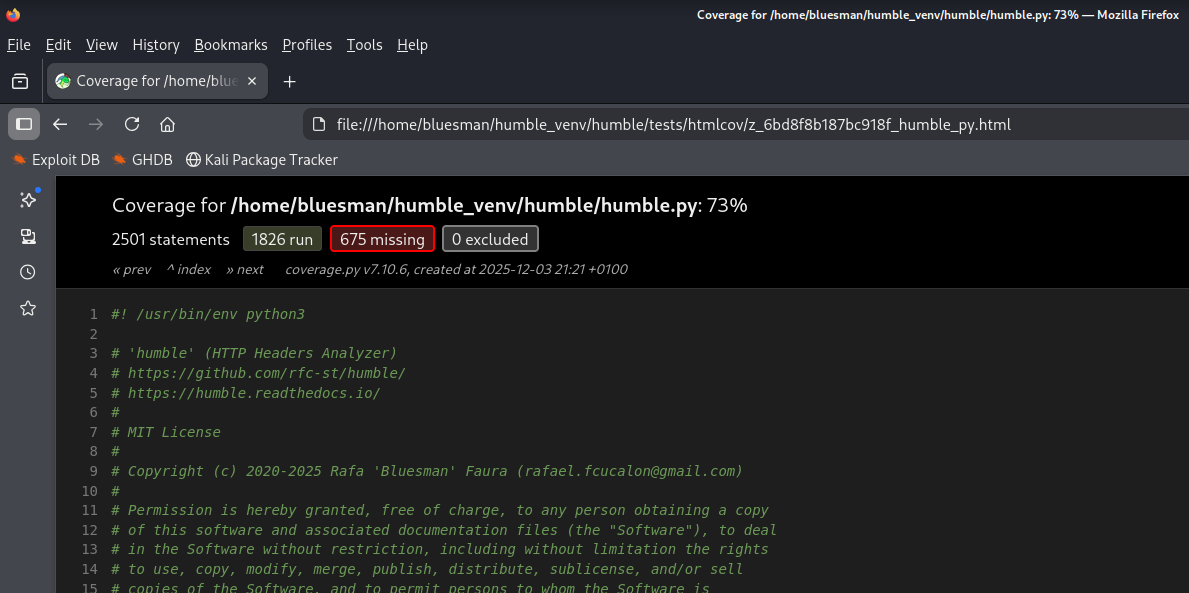
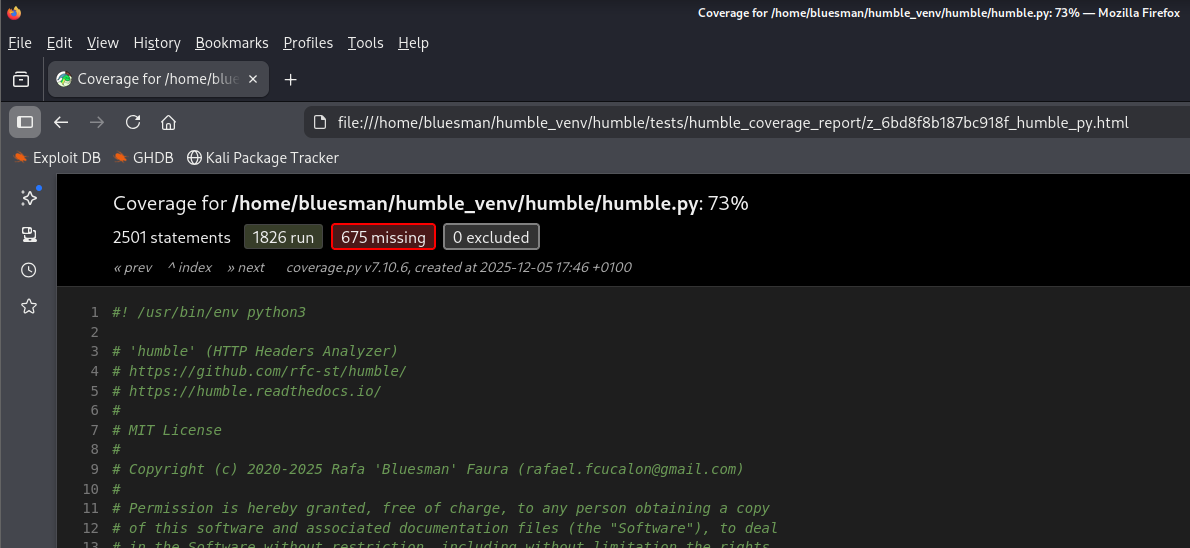
Minor: Delete temporary files and folders after code coverage generation

Changed region(s): [[0.0, 0.062, 1.0, 1.0], [0.5913, 0.0, 0.9958, 0.031], [0.0, 0.0, 0.0311, 0.031]]

diff --git a/tests/test_basic.py b/tests/test_basic.py
@@ -256,6 +256,16 @@ def delete_pytest_caches(dir_path):
     return msgs
 
 
+def delete_pytestcov_caches(dir_path):
+    """
+    Delete the directories associated with the pytest caches after code
+    coverage has been run.
+    """
+    if path.isdir(dir_path):
+        with contextlib.suppress(Exception):
+            shutil.rmtree(dir_path)
+
+
 def set_temp_content(current_time):
     """
     Define the files and directories to be deleted after all tests have been
@@ -321,6 +331,19 @@ parser.add_argument("-l", dest='lang', choices=['en', 'es'], help="Defines the\
  language for displaying errors and messages")
 
 args = _Args()
+
+
+@pytest.fixture(scope="session", autouse=True)
+def delete_temp_coverage():
+    global l10n_main
+    global args
+    args.lang = "en"
+    l10n_main = get_l10n_content()
+    yield
+    delete_temp_content()
+    for cache_dir in PYTEST_CACHE_DIRS:
+        delete_pytestcov_caches(cache_dir)
+
 
 if __name__ == "__main__":
     args = parser.parse_args(args=None if sys.argv[1:] else ['--help'])

diff --git a/humble.py b/humble.py
@@ -174,7 +174,7 @@ VALIDATE_FILE = path.join(OS_PATH, HUMBLE_FILES[0])
 XML_STRING = ('Ref: ', 'Value: ', 'Valor: ')
 
 current_time = datetime.now().strftime("%Y/%m/%d - %H:%M:%S")
-local_version = datetime.strptime('2025-12-03', '%Y-%m-%d').date()
+local_version = datetime.strptime('2025-12-05', '%Y-%m-%d').date()
 
 BANNER_VERSION = f'{URL_LIST[4]} | v.{local_version}'
 

diff --git a/README.md b/README.md
@@ -6,7 +6,7 @@
 <a target="_blank" href="https://devguide.python.org/versions/" title="Minimum Python version required to run this tool"><img src="https://img.shields.io/badge/Python-%3E%3D3.11-blue?labelColor=343b41"></a>
 <a target="_blank" href="LICENSE" title="License of this tool"><img src="https://img.shields.io/badge/License-MIT-blue.svg?labelColor=343b41"></a>
 <a target="_blank" href="https://github.com/rfc-st/humble/releases" title="Latest release of this tool"><img src="https://img.shields.io/github/v/release/rfc-st/humble?display_name=release&label=Latest%20Release&labelColor=343b41"></a>
-<a target="_blank" href="https://github.com/rfc-st/humble/commits/master" title="Latest commit of this tool"><img src="https://img.shields.io/badge/Latest_Commit-2025--12--03-blue.svg?labelColor=343b41"></a>
+<a target="_blank" href="https://github.com/rfc-st/humble/commits/master" title="Latest commit of this tool"><img src="https://img.shields.io/badge/Latest_Commit-2025--12--05-blue.svg?labelColor=343b41"></a>
 <a target="_blank" href="https://pkg.kali.org/pkg/humble" title="Official tool in Kali Linux"><img src="https://img.shields.io/badge/Kali%20Linux-Tool-blue?labelColor=343b41"></a>
 <br />
 <a target="_blank" href="#" title="Featured on:"><img src="https://img.shields.io/badge/Featured%20on:-343b41"></a>
@@ -444,7 +444,7 @@ $ python test_basic.py -l en
 $ cd <humble dir>
 $ cd tests
 $ pytest test_basic.py --cov-config=.coveragerc --cov=.. --cov-report=html --tb=no -rA -q -v -W ignore
-$ cd htmlcov
+$ cd humble_coverage_report
 Open the index.html file in a browser.
 ```
 
